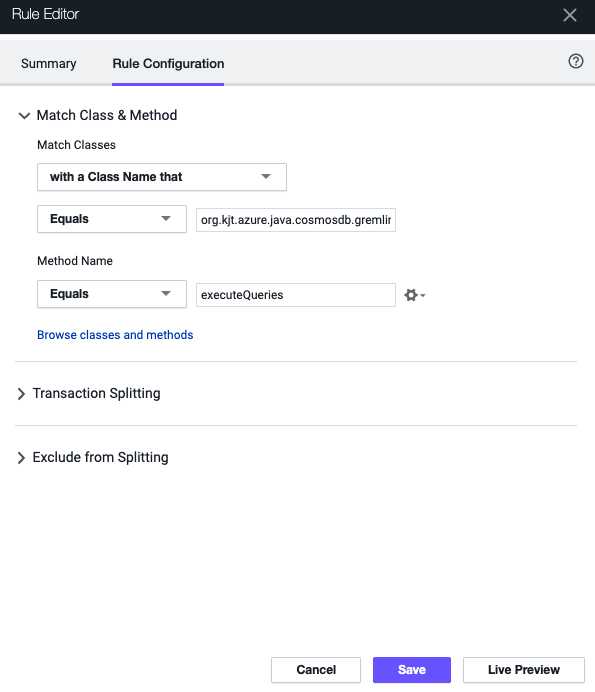
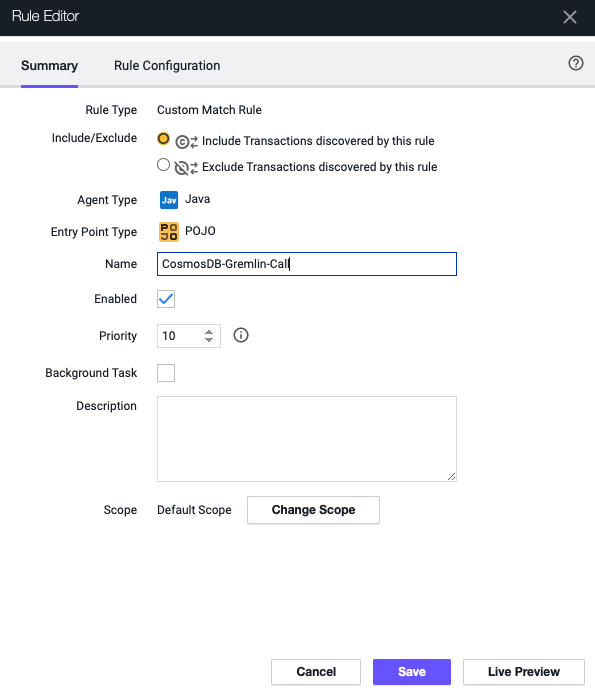
updated README

diff --git a/README.md b/README.md
@@ -1,6 +1,33 @@
 # Background
 
-Originally used [this](https://github.com/Azure-Samples/azure-cosmos-db-graph-java-getting-started) project as the base for this project.
+I used [this](https://github.com/Azure-Samples/azure-cosmos-db-graph-java-getting-started) project as the base for this project.
+
+The purpose of this project is to illustrate how to configure AppDynamics to detect CosmosDB Gremlin API queries.  The section [AppD](#appd) walks through the steps taken and results.
+
+The original README (for notes on how to config and run) starts with section [Developing a Java app using Azure Cosmos DB](#developing-a-java-app-using-azure-cosmos-db).
+
+I also added a section at the very end to walk through how to [Run with Docker Compose](#run-with-docker-compose).
+
+## AppD
+
+Because this is a simple console app, the first step is to create a Business Transaction that will instrument this code.
+
+Here are the configs, and some screenshots to show them in the UI.
+
+| Step Number | Config | Value | Description |
+| 1 | Agent Type | Java | The type of agent being used, in this case Java for a Java app |
+| 1 | Entry Point Type | POJO | Tells the agent how to apply an interceptor, in this case for a POJO (plain old java object) |
+| 2 | Name | CosmosDB-Gremlin-Call | The name of the transaction in the UI, this can be whatever is preferred |
+| 2 | Priority | 10 | This prioritizes this rule above others, 10 just makes it prioritized higher than any conflicting OOB rules |
+| 2 | Scope | Default Scope | This allows separation of rules across different services, for this case, it doesn't matter |
+| 3 | Match Classes | with a Class Name that, Equals, org.kjt.azure.java.cosmosdb.gremlin.Program | We want to instrument a Class (versus, perhaps an interface), and we want to Exact match the fully-qualifed Class name |
+| 3 | Method Name | Equals, executeQueries | We want to instrument via Exact match of the given method name |
+
+![Step Number 1](/images/gremlin_business_transaction_config_1.png)
+
+![Step Number 2](/images/gremlin_business_transaction_config_2.png)
+
+![Step Number 3](/images/gremlin_business_transaction_config_3.png)
 
 # Developing a Java app using Azure Cosmos DB
 Azure Cosmos DB is a globally distributed multi-model database. One of the supported APIs is the Graph (Gremlin) API, which provides a graph data model with [Gremlin query/traversals](https://tinkerpop.apache.org/gremlin.html). This sample shows you how to use the Azure Cosmos DB with the Graph API to store and access data from a Java application.
@@ -41,3 +68,6 @@ The code included in this sample is intended to get you quickly started with a J
 - [Gremlin Java SDK](http://tinkerpop.apache.org/docs/current/reference/#gremlin-java)
 - [Gremlin Java Reference Documentation](http://tinkerpop.apache.org/javadocs/current/full/)
 
+## Run with Docker Compose
+
+//TODO
